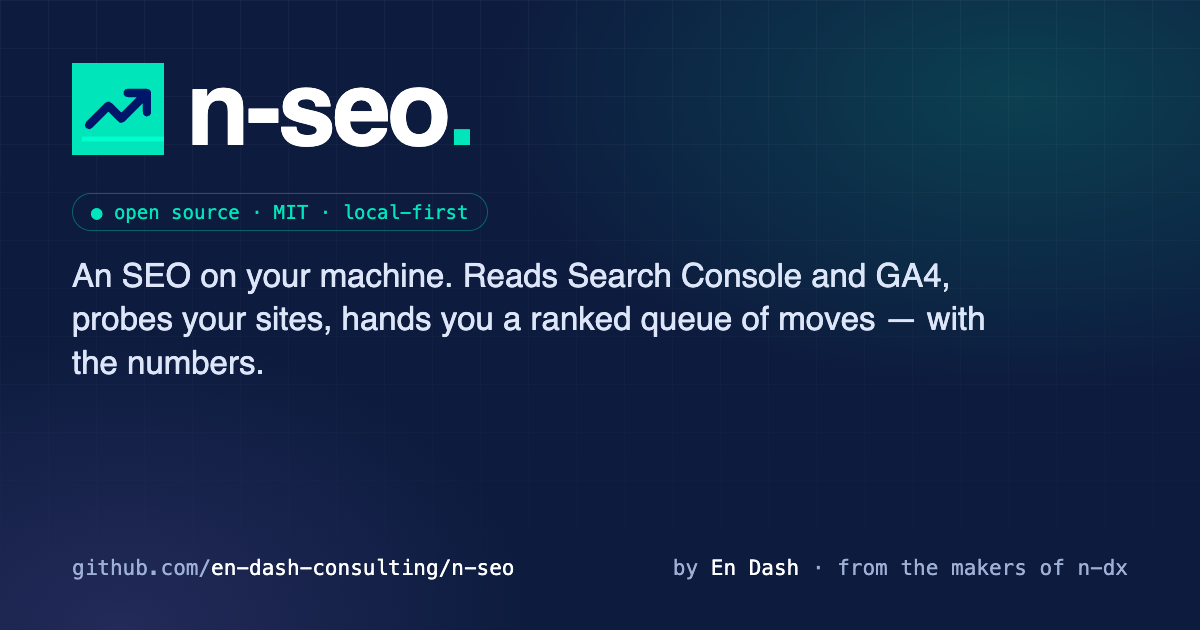
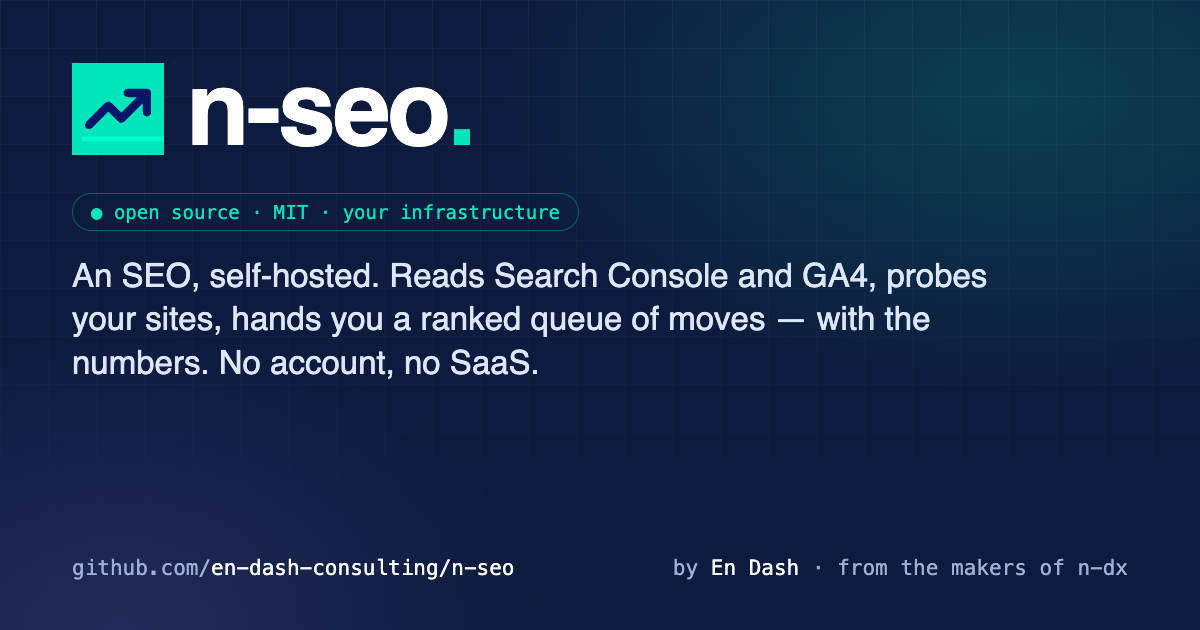
Headline: An SEO, self-hosted
'An SEO on your machine' was written when the tool only ran on a laptop. It
now deploys to a VPS, a NAS or a VM in your own cloud, so the line pulled
against the docs.

The pun on the name survives; the location claim is replaced by the actual
pitch. The badge reads 'your infrastructure', the hero says 'No account, no
SaaS', and the data promise widens from 'nothing leaves your machine' to
'nothing leaves the host'. Regenerated the Open Graph card to match.

Claude-Session: https://claude.ai/code/session_01A2Cx4YNPAdehCxxngeXh2s

Changed region(s): [[0.0617, 0.4222, 0.8325, 0.6032], [0.2775, 0.3016, 0.4625, 0.3619]]

diff --git a/www/index.html b/www/index.html
@@ -3,9 +3,9 @@
 <head>
 <meta charset="UTF-8">
 <meta name="viewport" content="width=device-width, initial-scale=1.0">
-<title>n-seo — An SEO on your machine</title>
-<meta name="description" content="n-seo is an open-source, local-first SEO / AEO / GEO control plane. It reads Search Console and GA4 every morning, probes your sites, and hands you a ranked queue of concrete moves with the numbers attached. Your data stays on your machine. It briefs you; it never posts for you.">
-<meta name="keywords" content="n-seo, open source SEO tool, Search Console dashboard, GA4, local-first SEO, AEO, GEO, AI crawlers, llms.txt, MCP, Claude Code, striking distance, CTR gaps">
+<title>n-seo — An SEO, self-hosted</title>
+<meta name="description" content="n-seo is an open-source, self-hosted SEO / AEO / GEO control plane. It reads Search Console and GA4 every morning, probes your sites, and hands you a ranked queue of concrete moves with the numbers attached. Run it on your laptop, a VPS or your own cloud. It briefs you; it never posts for you.">
+<meta name="keywords" content="n-seo, open source SEO tool, Search Console dashboard, GA4, self-hosted SEO, AEO, GEO, AI crawlers, llms.txt, MCP, Claude Code, striking distance, CTR gaps">
 <meta name="author" content="En Dash Consulting">
 <meta name="robots" content="index, follow">
 <link rel="canonical" href="https://en-dash-consulting.github.io/n-seo/">
@@ -13,15 +13,15 @@
 
 <meta property="og:type" content="website">
 <meta property="og:url" content="https://en-dash-consulting.github.io/n-seo/">
-<meta property="og:title" content="n-seo — An SEO on your machine">
-<meta property="og:description" content="Open-source, local-first SEO control plane. Reads Search Console and GA4, probes your sites, hands you a ranked queue of moves — with the numbers. It briefs you; it never posts for you.">
+<meta property="og:title" content="n-seo — An SEO, self-hosted">
+<meta property="og:description" content="Open-source, self-hosted SEO control plane. Reads Search Console and GA4, probes your sites, hands you a ranked queue of moves — with the numbers. It briefs you; it never posts for you.">
 <meta property="og:image" content="https://en-dash-consulting.github.io/n-seo/assets/og.png">
 <meta property="og:image:width" content="1200">
 <meta property="og:image:height" content="630">
 <meta property="og:site_name" content="n-seo">
 <meta name="twitter:card" content="summary_large_image">
-<meta name="twitter:title" content="n-seo — An SEO on your machine">
-<meta name="twitter:description" content="Open-source, local-first SEO control plane from the makers of n-dx. Reads Search Console and GA4, probes your sites, ranks the moves. It briefs you; it never posts for you.">
+<meta name="twitter:title" content="n-seo — An SEO, self-hosted">
+<meta name="twitter:description" content="Open-source, self-hosted SEO control plane from the makers of n-dx. Reads Search Console and GA4, probes your sites, ranks the moves. It briefs you; it never posts for you.">
 <meta name="twitter:image" content="https://en-dash-consulting.github.io/n-seo/assets/og.png">
 
 <link rel="icon" type="image/svg+xml" href="favicon.svg">
@@ -36,7 +36,7 @@
   "name": "n-seo",
   "applicationCategory": "DeveloperApplication",
   "operatingSystem": "macOS, Linux",
-  "description": "Open-source, local-first SEO / AEO / GEO control plane. Pulls Search Console and GA4, probes live sites, and produces a ranked action queue with evidence. Read-only MCP server for AI agents.",
+  "description": "Open-source, self-hosted SEO / AEO / GEO control plane. Pulls Search Console and GA4, probes live sites, and produces a ranked action queue with evidence. Read-only MCP server for AI agents.",
   "url": "https://en-dash-consulting.github.io/n-seo/",
   "codeRepository": "https://github.com/en-dash-consulting/n-seo",
   "license": "https://opensource.org/licenses/MIT",
@@ -224,9 +224,9 @@
   <div class="hero-bg"></div>
   <div class="hero-grid"></div>
   <div class="wrap">
-    <div class="badge"><span>● open source · MIT · self-hosted</span><span>·</span><b>from the makers of n-dx</b></div>
-    <h1>An SEO on your machine<span>.</span></h1>
-    <p class="sub">n-seo reads Search Console and GA4 every morning, probes your sites for what quietly broke, and hands you a ranked queue of concrete moves — with the numbers attached. Your data stays on your machine. It briefs you; it never posts for you.</p>
+    <div class="badge"><span>● open source · MIT · your infrastructure</span><span>·</span><b>from the makers of n-dx</b></div>
+    <h1>An SEO, self-hosted<span>.</span></h1>
+    <p class="sub">n-seo reads Search Console and GA4 every morning, probes your sites for what quietly broke, and hands you a ranked queue of concrete moves — with the numbers attached. No account, no SaaS. It briefs you; it never posts for you.</p>
     <div class="hero-actions">
       <a class="btn primary" href="#start">Run it in 5 minutes</a>
       <a class="btn" href="https://github.com/en-dash-consulting/n-seo">View on GitHub ↗</a>
@@ -238,7 +238,7 @@
     <p class="shot-caption">The overview on demo data. Every row is a link; every number is derived live from files on your disk.</p>
 
     <div class="promises">
-      <div class="promise"><div class="k">Data</div><h3>Yours, on your disk</h3><p>Nothing leaves your machine except calls to the Google APIs you authorize. No account, no SaaS, no telemetry.</p></div>
+      <div class="promise"><div class="k">Data</div><h3>Yours, on your hardware</h3><p>Laptop, VPS, NAS or a VM in your own cloud. Nothing leaves the host except calls to the Google APIs you authorize. No account, no SaaS, no telemetry.</p></div>
       <div class="promise"><div class="k">Judgment</div><h3>Evidence first</h3><p>Every card shows the queries, positions and impressions behind it, then the move, then a spec. You learn what actually moves the numbers.</p></div>
       <div class="promise"><div class="k">Hands</div><h3>It briefs; you act</h3><p>No module edits your site, sends an email or posts a comment. Community modules write briefings. The words are always yours.</p></div>
     </div>
@@ -370,7 +370,7 @@ python3 ops/daily.py    <span class="c"># the morning run, by hand</span></pre>
     <div class="free">
       <div><b>No SaaS, no account, no seat price.</b> MIT licensed. Clone it, run it, fork it, ship it inside your company.</div>
       <div><b>Google's APIs are free within quota.</b> Search Console and GA4 reporting cost nothing at this scale; the index sweep is capped well under the daily limit.</div>
-      <div><b>Bring the LLM you already have — or none.</b> The core loop needs no model at all. The inference module runs whatever command you give it, on your machine, with your prompt.</div>
+      <div><b>Bring the LLM you already have — or none.</b> The core loop needs no model at all. The inference module runs whatever command you give it, or calls an endpoint you choose, with your prompt.</div>
       <div><b>We run our own sites on it.</b> n-seo is the generalized version of the control plane En Dash uses for its own portfolio every morning. When it breaks, we notice first.</div>
     </div>
   </div>

diff --git a/README.md b/README.md
@@ -1,6 +1,6 @@
 # n-seo
 
-**An SEO on your machine.** Website: https://en-dash-consulting.github.io/n-seo/ · From the makers of [n-dx](https://n-dx.dev).
+**An SEO, self-hosted.** Website: https://en-dash-consulting.github.io/n-seo/ · From the makers of [n-dx](https://n-dx.dev).
 
 A local-first control plane for growing organic traffic to your own sites —
 classic search (SEO), answer engines (AEO) and AI assistants that cite sources
@@ -10,9 +10,9 @@ It pulls Search Console and GA4 into local JSON, probes your live sites for the
 things that quietly break (robots, sitemap, soft 404s, blocked AI crawlers,
 JS-only shells), and turns all of it into a **ranked queue of concrete actions**:
 which page to retitle, which query to answer, which page never got crawled.
-It runs on your machine, on a schedule, and shows you the result on a dashboard.
+It runs on hardware you control, on a schedule, and shows you the result on a dashboard.
 
-- **Your data stays on your machine.** Nothing is sent anywhere except the
+- **Your data stays on your own hardware.** Nothing is sent anywhere except the
   Google APIs you authorize and, optionally, a local LLM command you choose.
 - **It briefs you; it never posts for you.** Community modules find threads
   and write a briefing. The words are always yours.

diff --git a/docs/ARCHITECTURE.md b/docs/ARCHITECTURE.md
@@ -3,7 +3,7 @@
 n-seo is a local-first control plane for organic growth across one or
 more websites: **SEO** (classic search), **AEO** (answer engines: featured
 snippets, AI Overviews) and **GEO** (being cited by ChatGPT, Claude,
-Perplexity). It runs on your machine, keeps all data in local JSON files, and
+Perplexity). It runs on a machine you control, keeps all data in local JSON files, and
 turns them into a ranked queue of concrete actions.
 
 ```

diff --git a/SECURITY.md b/SECURITY.md
@@ -2,7 +2,7 @@
 
 ## Model
 
-n-seo is a **local-only** tool. It runs on your machine, reads your Google
+n-seo is a **self-hosted** tool. It runs on a machine you control, reads your Google
 data with credentials you control, and writes JSON files under `data/`. There
 is no hosted service, no telemetry, and no outbound traffic other than:
 
